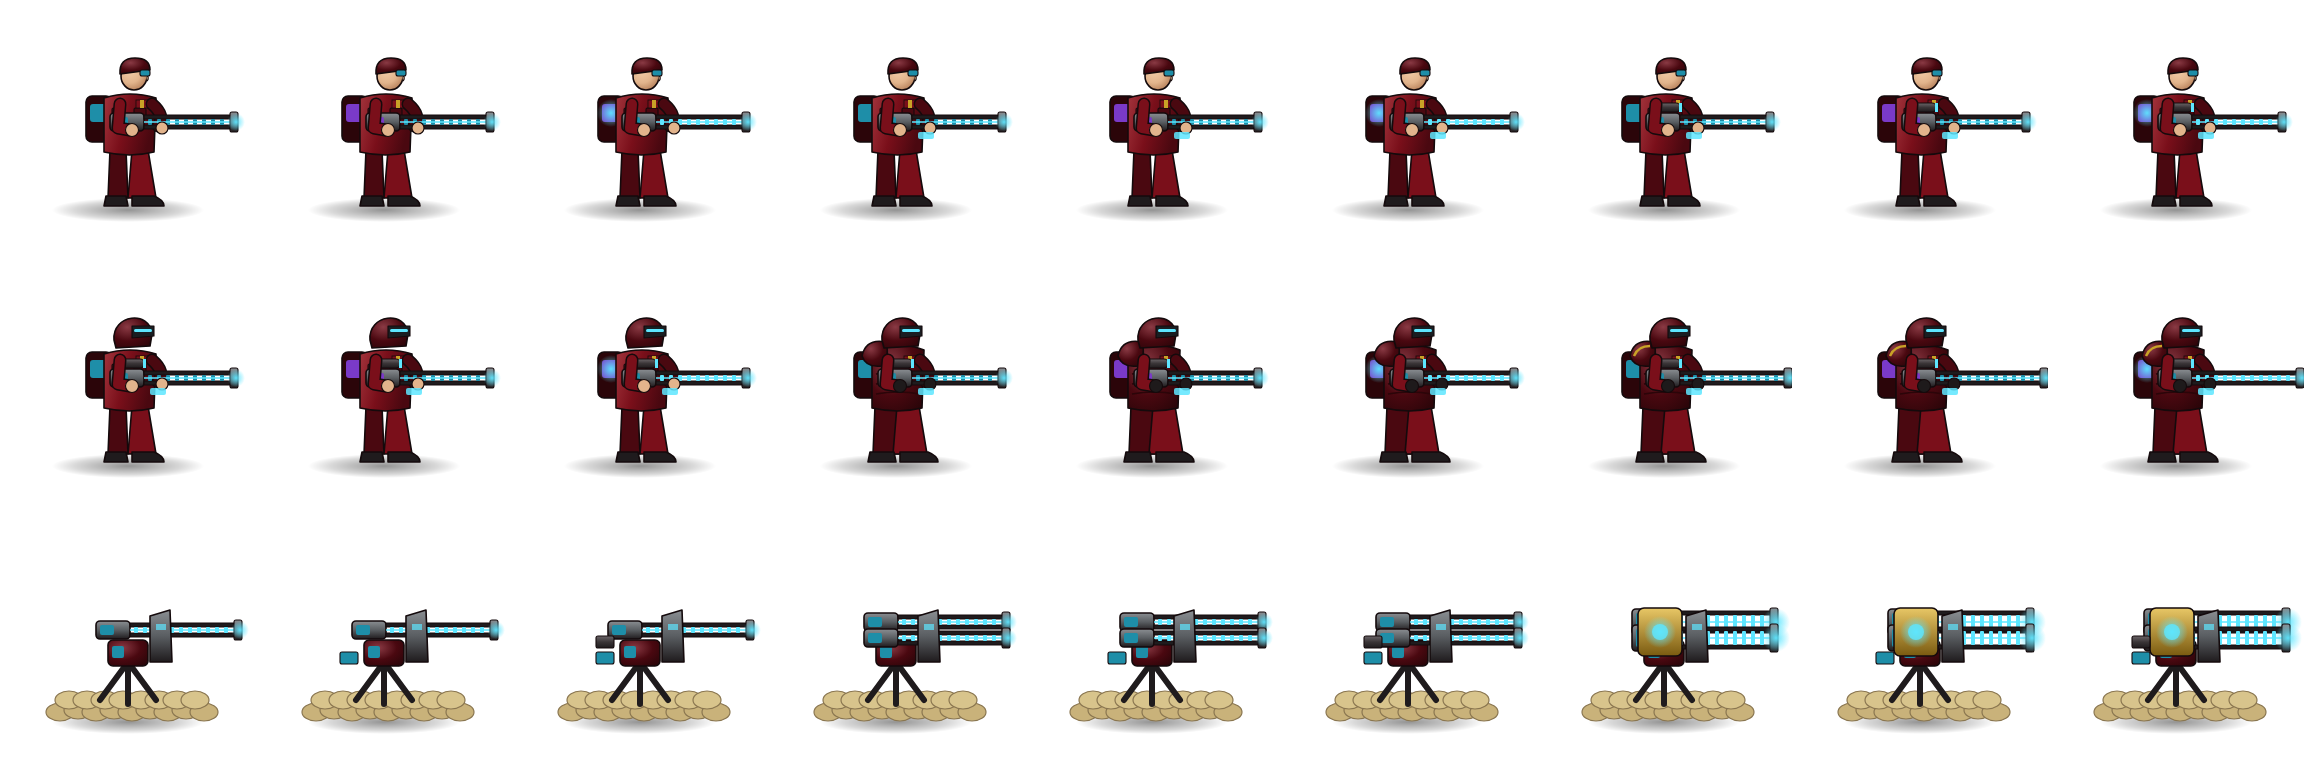
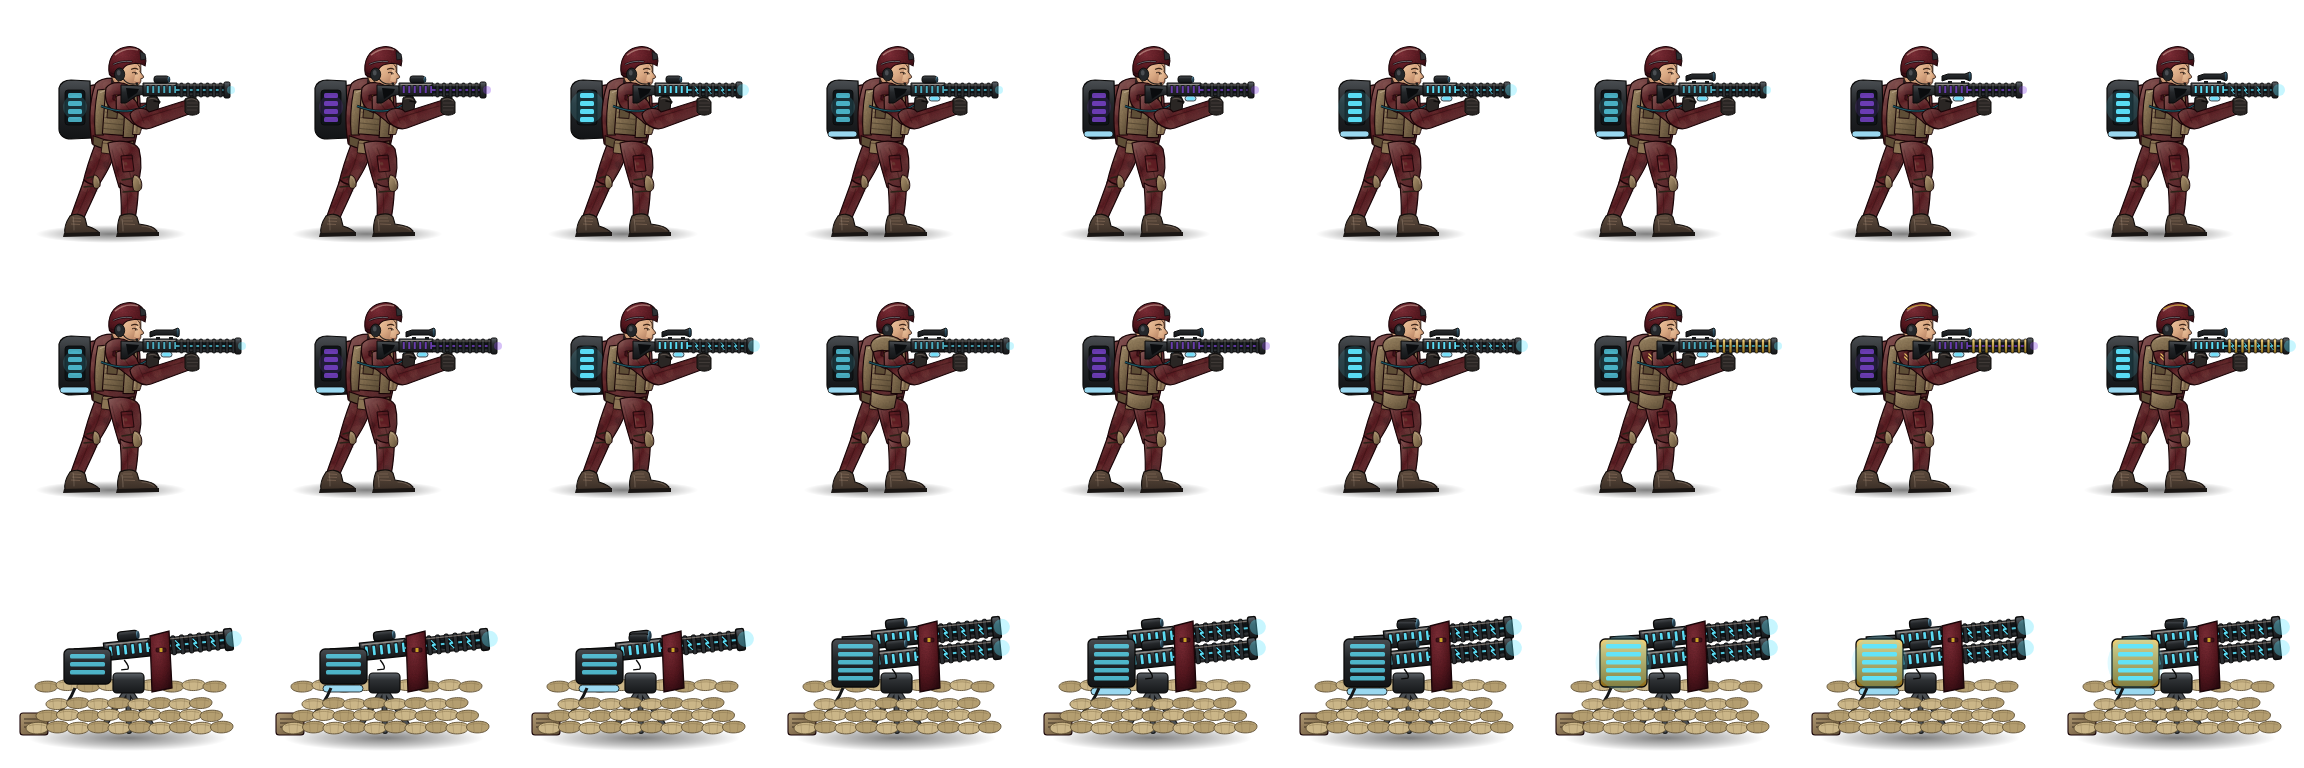
Railgunner im neuen Detailstil (alle 27 Stufen, Soldat und Geschützstellung)
Claude-Session: https://claude.ai/code/session_01H2UiKssafjRzK7unKsx8yK

diff --git a/index.html b/index.html
@@ -128,6 +128,6 @@ button{touch-action:manipulation}#feld{touch-action:none}
   <div id="toast" role="status" aria-live="polite" style="position:absolute;left:570px;top:96px;transform:translateX(-50%);display:none;z-index:5;background:#2B0509;border:2px solid #C9A227;border-radius:12px;padding:12px 20px;font-weight:800;font-size:17px;color:#E8C766;white-space:nowrap"></div>
   <div id="overlay"><div class="karte" id="overlayInhalt"></div></div>
 </div>
-<script src="spiel.js?v=2026-11-20-4"></script>
+<script src="spiel.js?v=2026-11-20-5"></script>
 </body>
 </html>

diff --git a/spiel.js b/spiel.js
@@ -1,7 +1,7 @@
 // Maiskolbistan Militär-Defense – Testkarte 1 (Westkolbistan)
 // Reines JavaScript, kein Bau-Schritt. Grafiken aus dem Maiskolbistan-Info-Repo (seiten/td-ranger-sprites).
 'use strict';
-const VERSION = '2026-11-20-4';   // bei jedem Update hochzählen (auch in index.html)
+const VERSION = '2026-11-20-5';   // bei jedem Update hochzählen (auch in index.html)
 
 (() => {
   const W = 1140, H = 810, MITTE = 570;

diff --git a/README.md b/README.md
@@ -135,7 +135,7 @@ Anzeige im Spiel: Rauch-, Lawinen- und Sandsturmwolken, eingefrorene Türme (bla
 
 ## Grafikstil (Umstellung läuft)
 
-Der **Ranger** ist im neuen, detaillierteren Stil gezeichnet (nach Fotovorlagen): vorgelehnter Anschlag, Plattenträger, Helm mit Headset, Gewehr in M4-Bauart, Stofftextur und Tarnmuster, Licht von oben links. Stufen: Präzision 1 Laservisier (Strahl) · 2 Elite (Zielfernrohr, goldene Winkel) · 3 Nachtsichtgerät · 4 schweres Gewehr (langer Lauf, Zweibein) · 5 leichtes MG mit Patronenkasten. Sturm 1 Goldspitzen-Munition · 2 Waffenlicht · 3 Schulter-, Hals- und Leistenschutz · 4 Granatwerfer und Handgranaten · 5 Sturmhaube mit Visier. Der **Scharfschütze** ist ebenfalls umgestellt (kniender Anschlag, Ellbogen auf dem Knie, Gewehr in M110-Bauart): Phantom 1 Buschhut + Tarnschminke · 2 Wärmebild-Vorsatz · 3 Schalldämpfer · 4 Ghillie-Kapuze und Tarnstreifen · 5 voller Ghillie mit Maisblättern; Schwerkaliber 1 längerer Lauf · 2 .50-Gewehr mit Mündungsbremse · 3 Helm und Panzerung · 4 Leuchtpistole · 5 Laser-Gewehr. Der **Juggernaut** ebenfalls (schwere Plattenrüstung mit Visierhelm, Minigun in M134-Bauart in Hüfthöhe, Munitionsrucksack mit Gurt): Feuerwalze 1 goldene Kraft-Handschuhe · 2 goldene Gelenkdämpfer · 3 lange Läufe · 4 Power-Minigun · 5 HE (glühende Läufe, rotes Visier, Hörner); Doppelfeuer 1 goldener Tragegriff · 2 AP-Gurt (gold) · 3 zweite Minigun am Schulterarm · 4 Cyan-Energierucksack · 5 Volle Leistung (Goldkanten). Die übrigen Türme folgen nacheinander.
+Der **Ranger** ist im neuen, detaillierteren Stil gezeichnet (nach Fotovorlagen): vorgelehnter Anschlag, Plattenträger, Helm mit Headset, Gewehr in M4-Bauart, Stofftextur und Tarnmuster, Licht von oben links. Stufen: Präzision 1 Laservisier (Strahl) · 2 Elite (Zielfernrohr, goldene Winkel) · 3 Nachtsichtgerät · 4 schweres Gewehr (langer Lauf, Zweibein) · 5 leichtes MG mit Patronenkasten. Sturm 1 Goldspitzen-Munition · 2 Waffenlicht · 3 Schulter-, Hals- und Leistenschutz · 4 Granatwerfer und Handgranaten · 5 Sturmhaube mit Visier. Der **Scharfschütze** ist ebenfalls umgestellt (kniender Anschlag, Ellbogen auf dem Knie, Gewehr in M110-Bauart): Phantom 1 Buschhut + Tarnschminke · 2 Wärmebild-Vorsatz · 3 Schalldämpfer · 4 Ghillie-Kapuze und Tarnstreifen · 5 voller Ghillie mit Maisblättern; Schwerkaliber 1 längerer Lauf · 2 .50-Gewehr mit Mündungsbremse · 3 Helm und Panzerung · 4 Leuchtpistole · 5 Laser-Gewehr. Der **Juggernaut** ebenfalls (schwere Plattenrüstung mit Visierhelm, Minigun in M134-Bauart in Hüfthöhe, Munitionsrucksack mit Gurt): Feuerwalze 1 goldene Kraft-Handschuhe · 2 goldene Gelenkdämpfer · 3 lange Läufe · 4 Power-Minigun · 5 HE (glühende Läufe, rotes Visier, Hörner); Doppelfeuer 1 goldener Tragegriff · 2 AP-Gurt (gold) · 3 zweite Minigun am Schulterarm · 4 Cyan-Energierucksack · 5 Volle Leistung (Goldkanten). Der **Railgunner** ebenfalls (Körper wie der Ranger, Schienenkanone mit Spulenringen und leuchtendem Kanal, Batteriepack; ab Geschützstellung eine Stellung hinter einer dreilagigen Sandsackmauer mit Dreibein, Schutzschild, Kondensatorbank und Generator): Schienen-Soldat 1 Kühlzellen · 2 Zielfernrohr · 3 längere Schienen · 4 Kampfanzug · 5 Gold-Spulen; Geschützstellung 1 Proto-Munition (violett) · 2 Blitzbögen · 3 Stellung · 4 Doppelrohr · 5 XRT-9000 (goldene Kondensatorbank). Die übrigen Türme folgen nacheinander.
 
 ## Turm-Paket 1 (nach TDX-Wiki)
 
